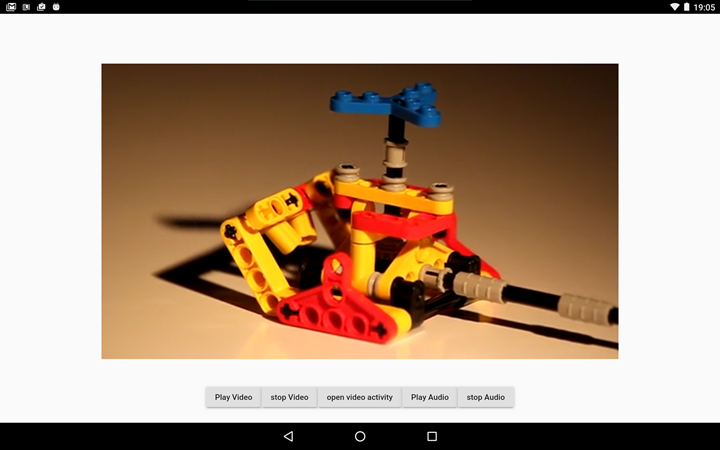
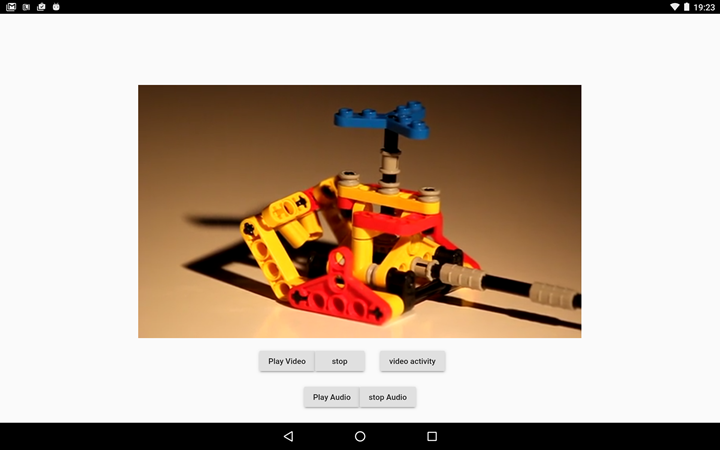
update screenshots

Changed region(s): [[0.1222, 0.1244, 0.8861, 0.9333], [0.9778, 0.0, 1.0, 0.0311]]

diff --git a/lib/main.dart b/lib/main.dart
@@ -38,22 +38,25 @@ class _MediaplayerState extends State<MediaPlayer> {
                         new RaisedButton(
                             child: new Text('Play Video'), onPressed: _play),
                         new RaisedButton(
-                            child: new Text('stop Video'), onPressed: _stop),
+                            child: new Text('stop'), onPressed: _stop),
+                        new Padding(
+                            padding: const EdgeInsets.all(28.0),
+                            child: new RaisedButton(
+                                child: new Text('video activity'),
+                                onPressed: _openVideoActivity)),
                       ], mainAxisAlignment: MainAxisAlignment.center),
                       /*new Text(_platformFeedback),*/
-                      new Padding(
-                          padding: const EdgeInsets.all(28.0),
-                          child: new RaisedButton(
-                              child: new Text('open video activity'),
-                              onPressed: _openVideoActivity)),
-                      new Row( mainAxisAlignment: MainAxisAlignment.center, children: [
-                        new RaisedButton(
-                            child: new Text('Play Audio'),
-                            onPressed: _playAudio),
-                        new RaisedButton(
-                            child: new Text('stop Audio'),
-                            onPressed: _stopAudio)
-                      ])
+
+                      new Row(
+                          mainAxisAlignment: MainAxisAlignment.center,
+                          children: [
+                            new RaisedButton(
+                                child: new Text('Play Audio'),
+                                onPressed: _playAudio),
+                            new RaisedButton(
+                                child: new Text('stop Audio'),
+                                onPressed: _stopAudio)
+                          ])
                     ]))));
   }
 
